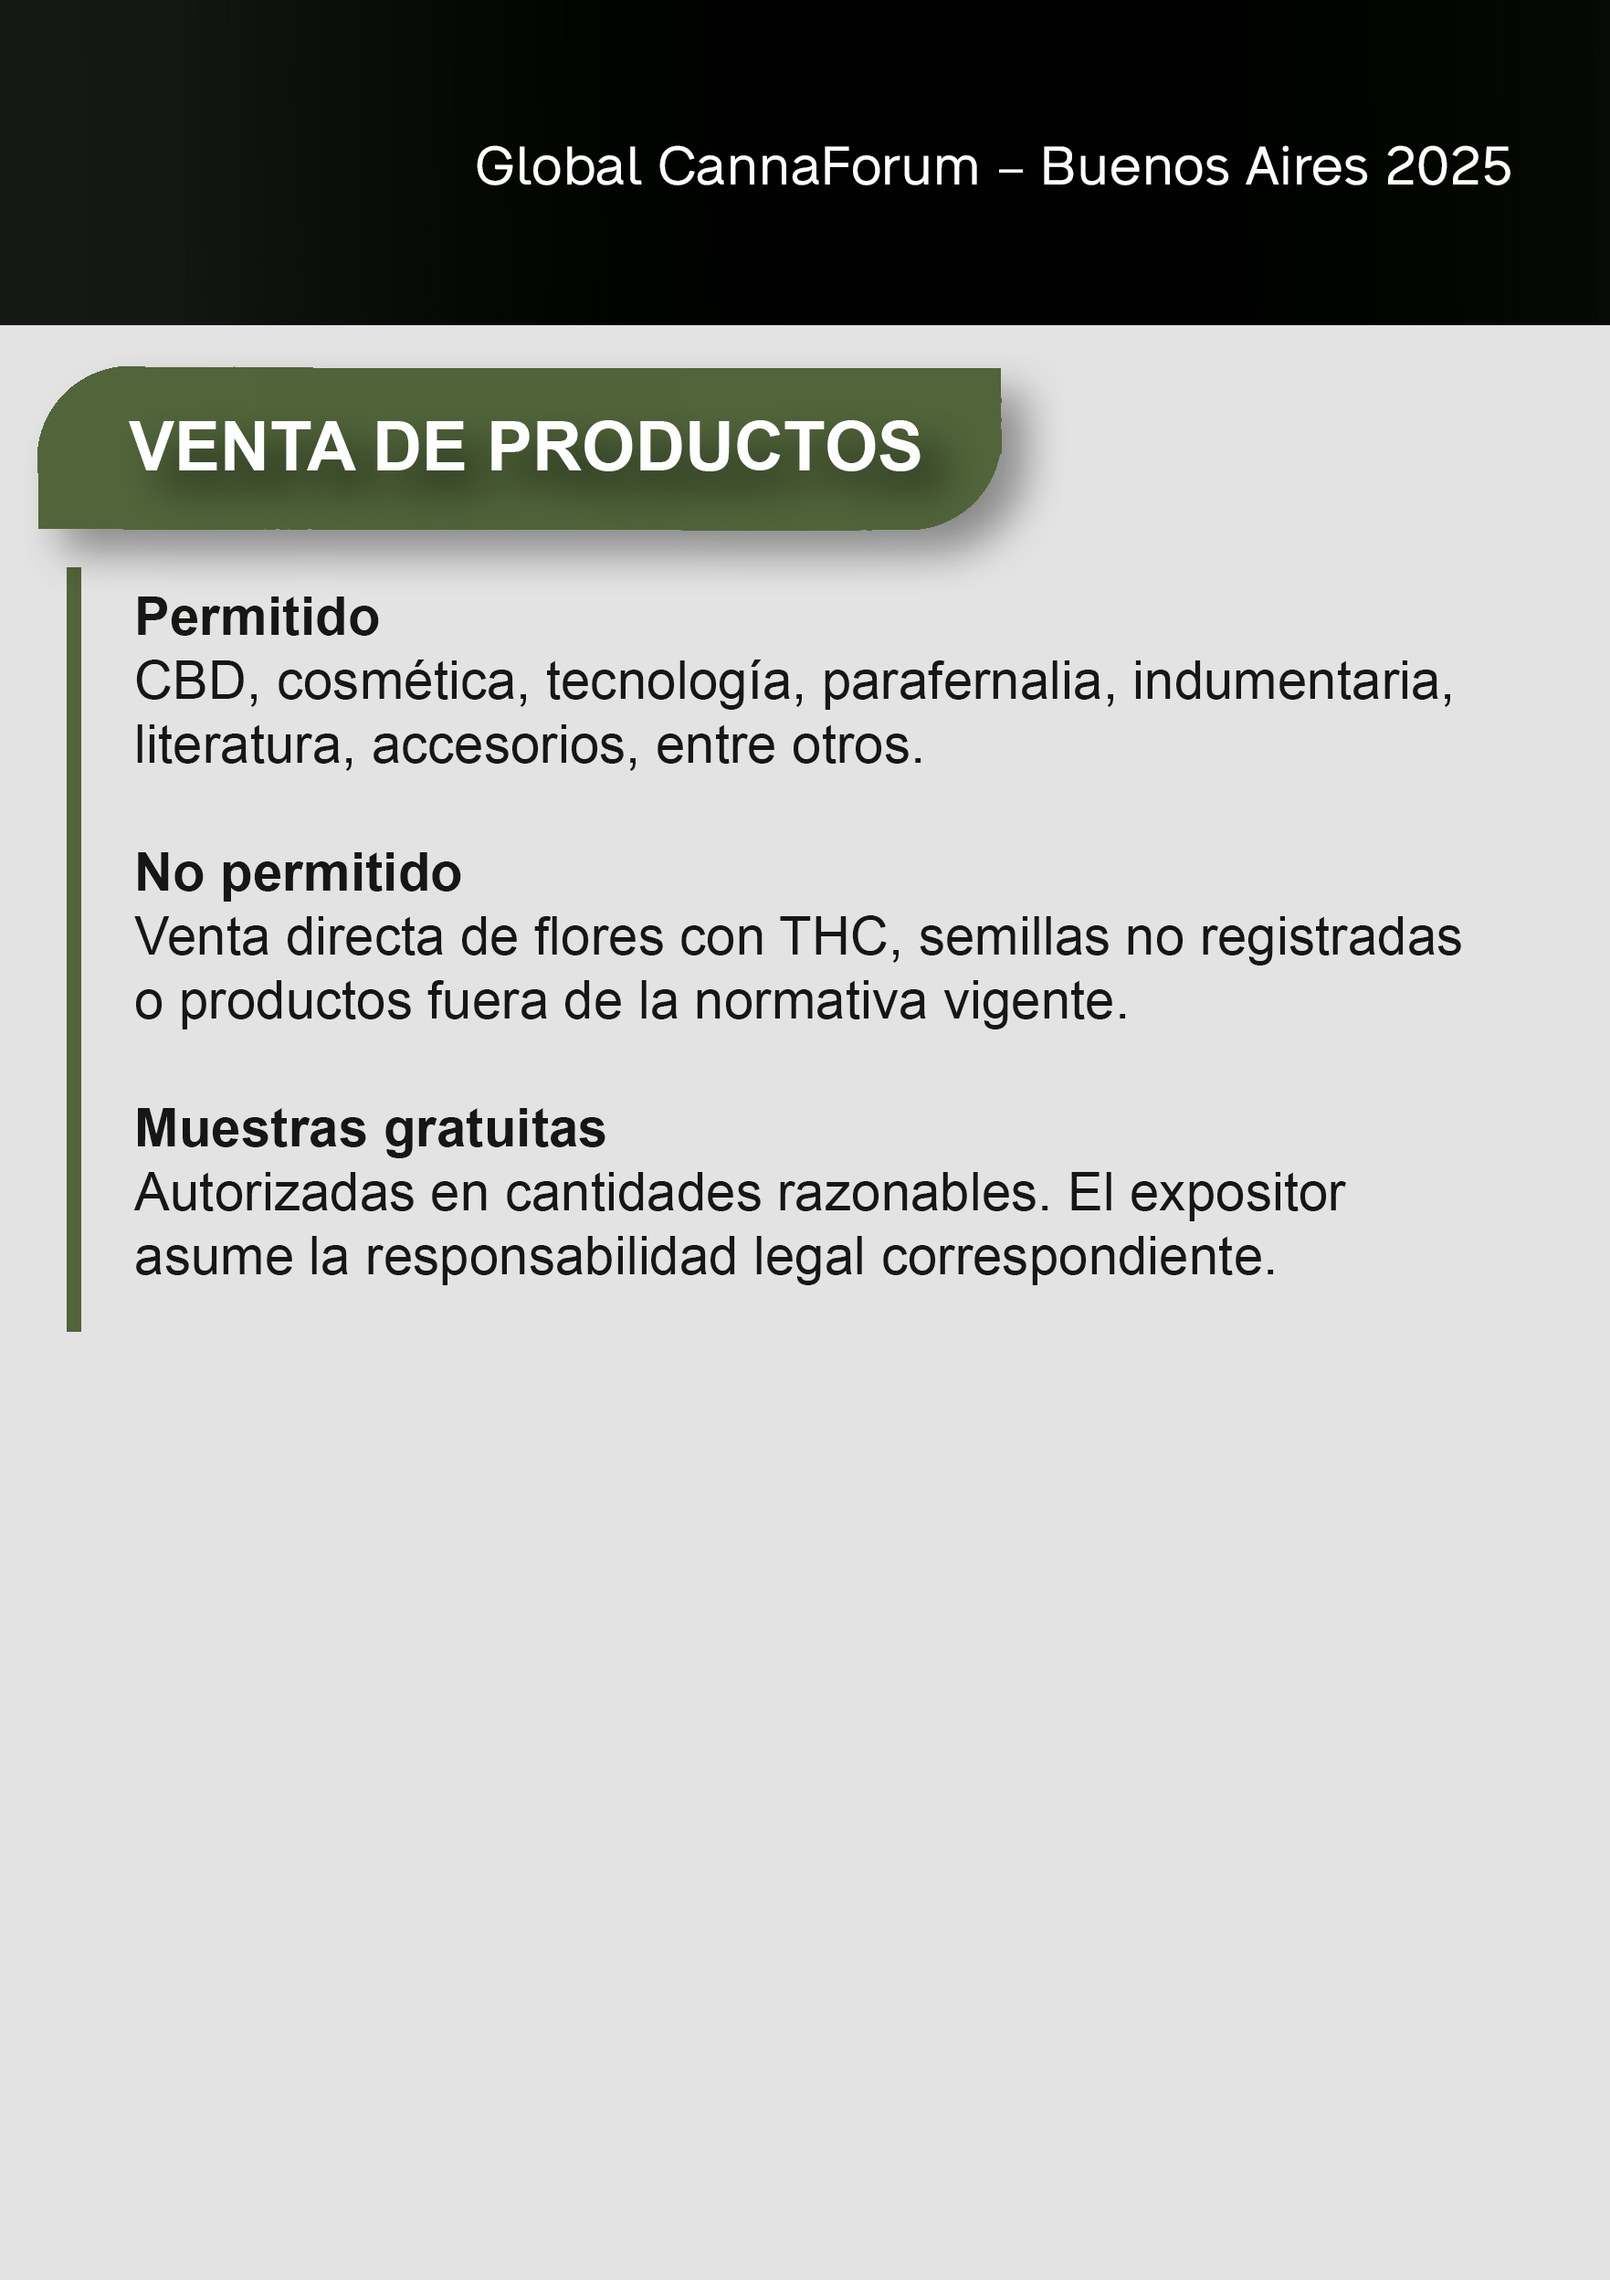
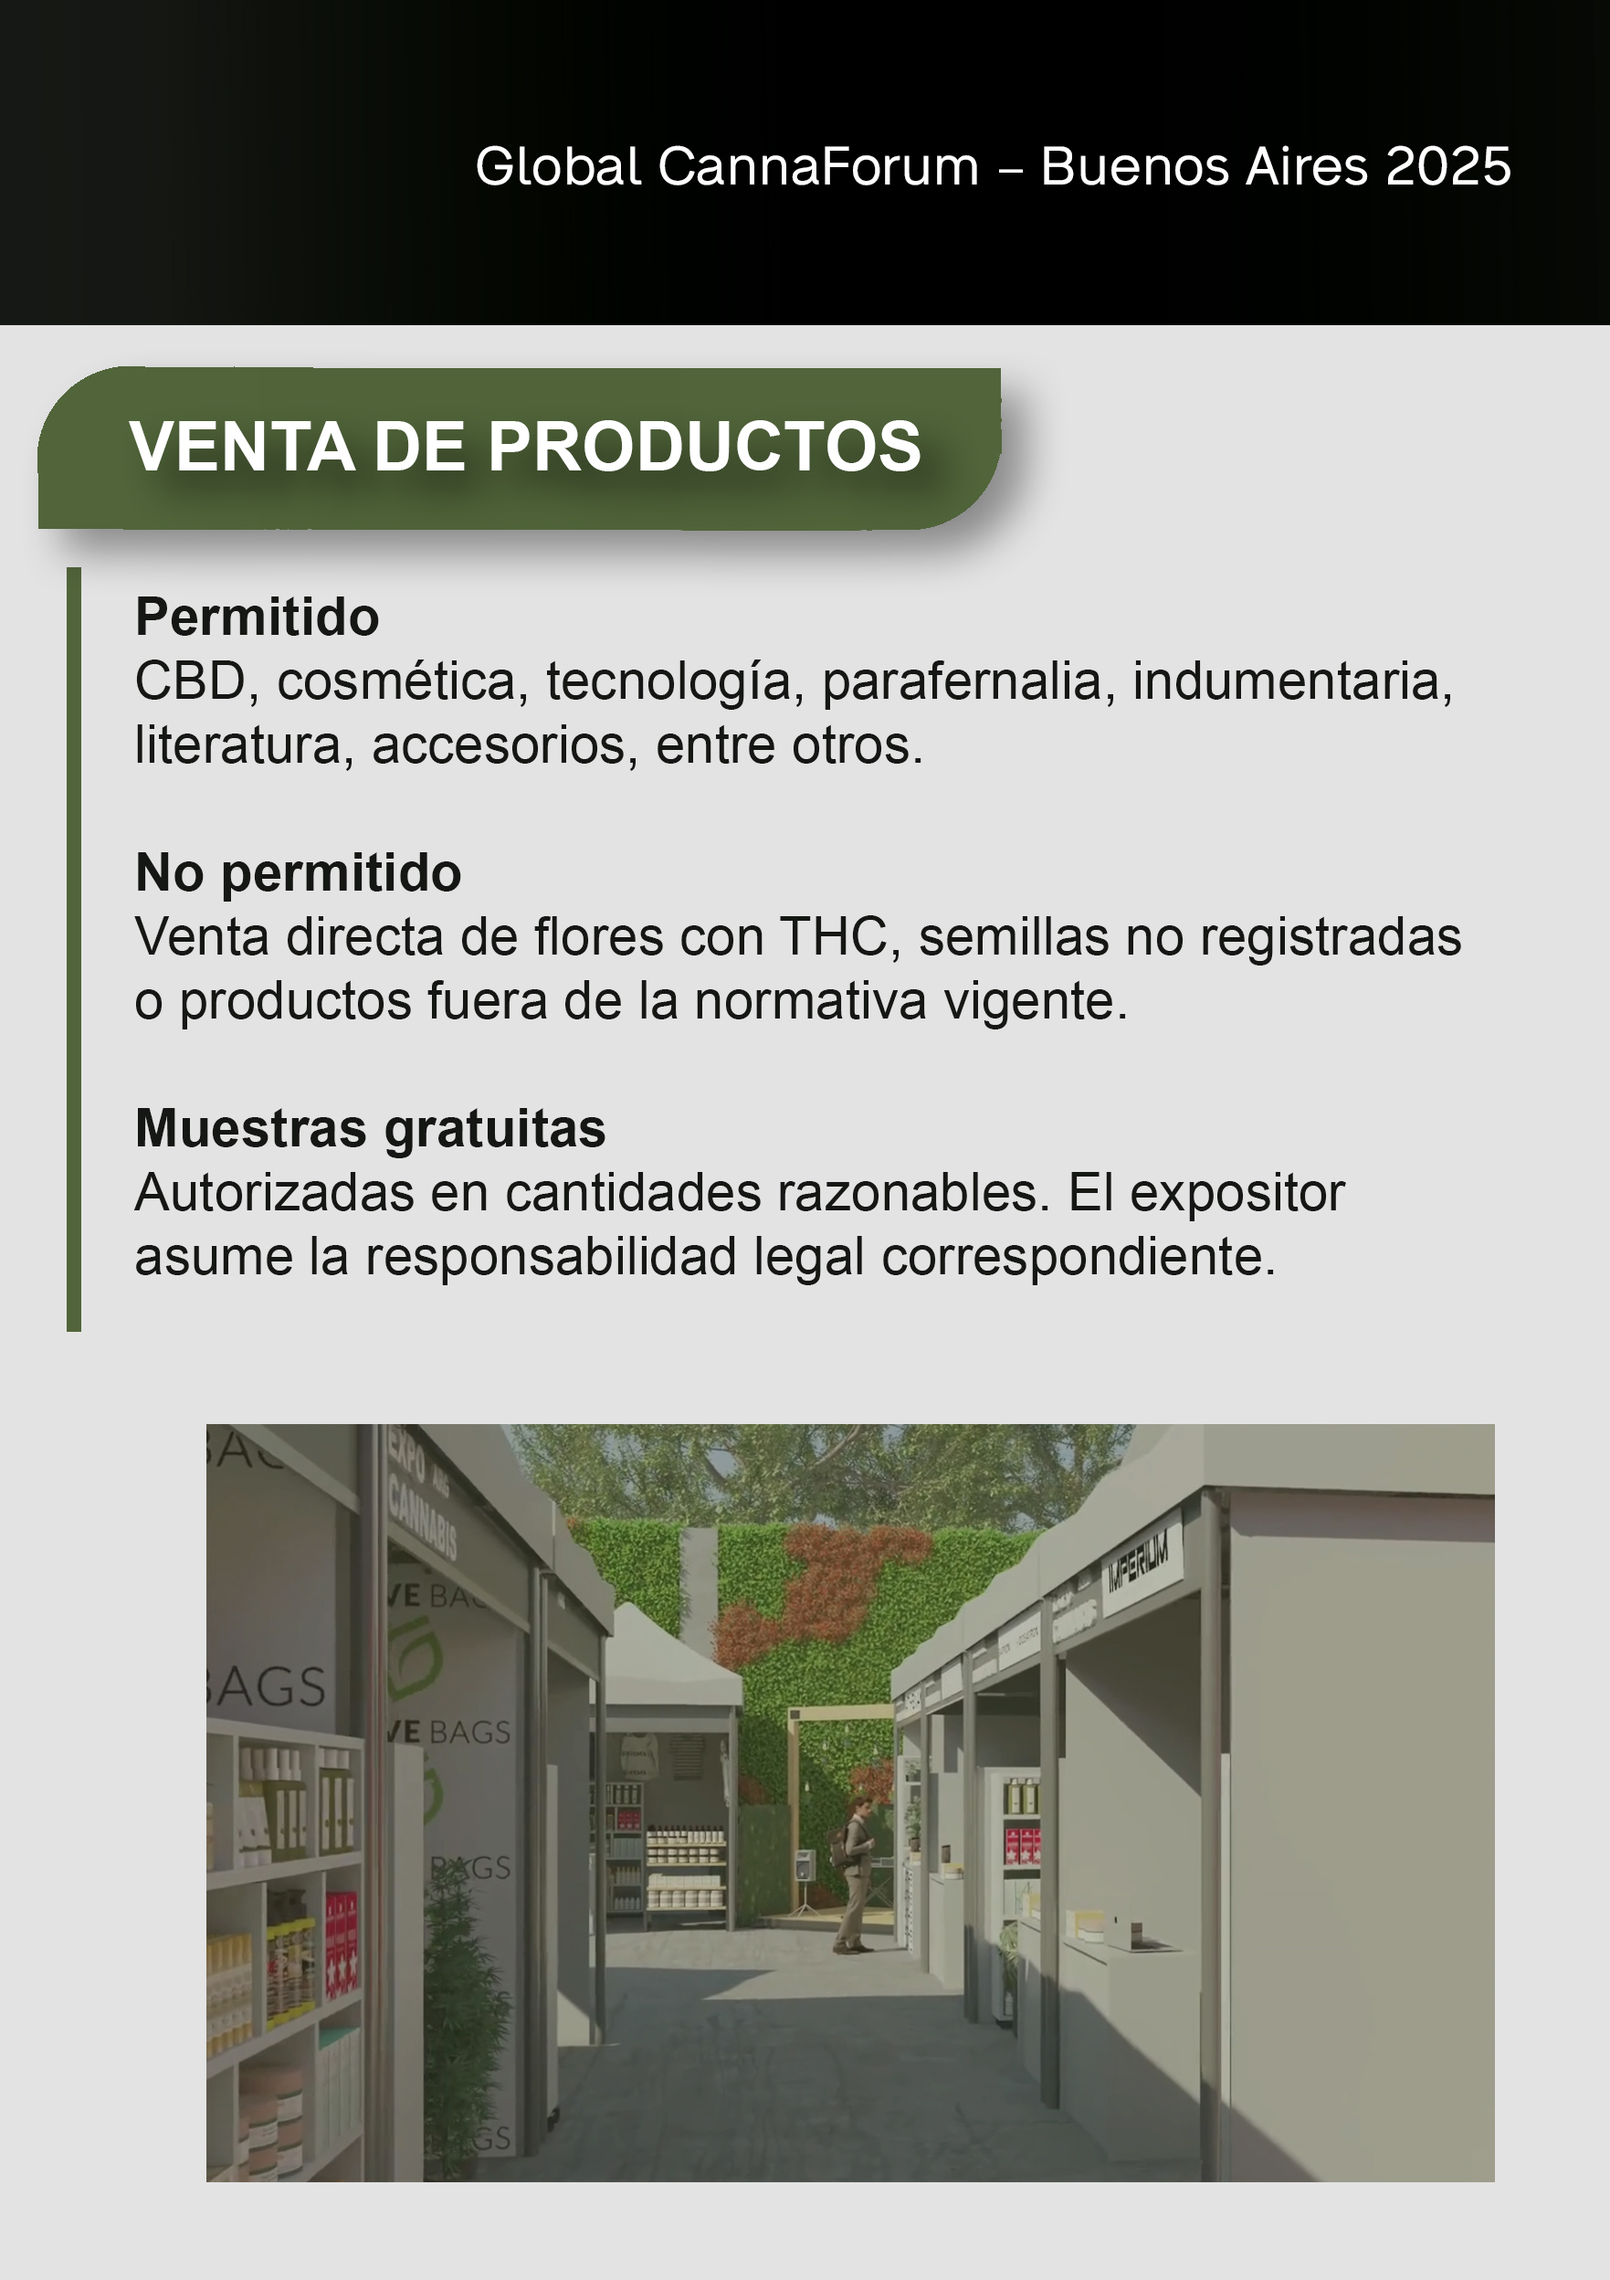
update

Changed region(s): [[0.1248, 0.625, 0.9359, 0.9688]]

diff --git a/js/magazine.js b/js/magazine.js
@@ -794,7 +794,7 @@ function loadPage(page, pageElement) {
 			let contenedor = $('<div></div>').css({
 				width: '70%',
 				height: '50%',
-				bottom:0,
+				bottom:-20,
 				right:60,
 				position:'absolute',
 				background: 'rgba(0,0,0,0)',
